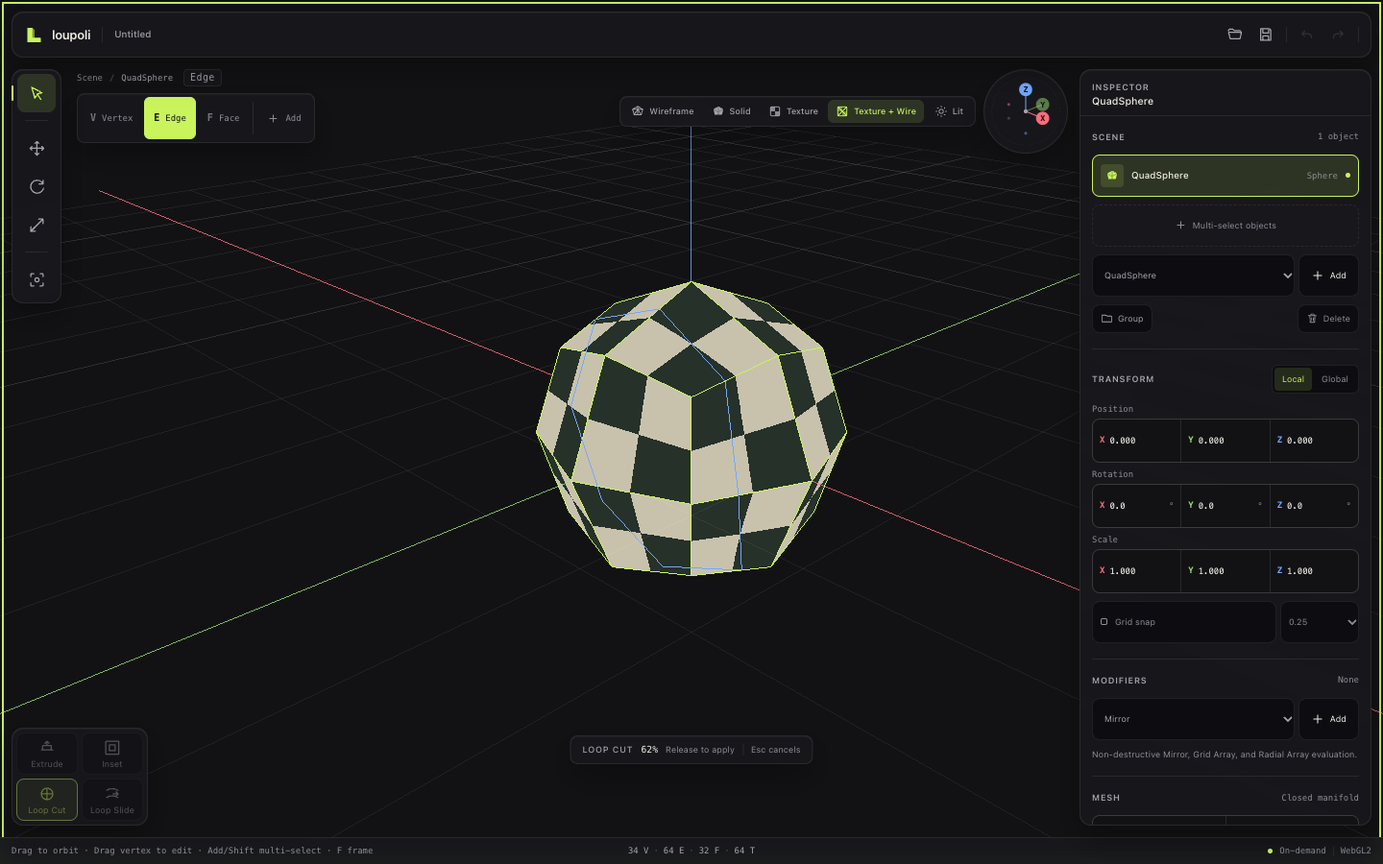
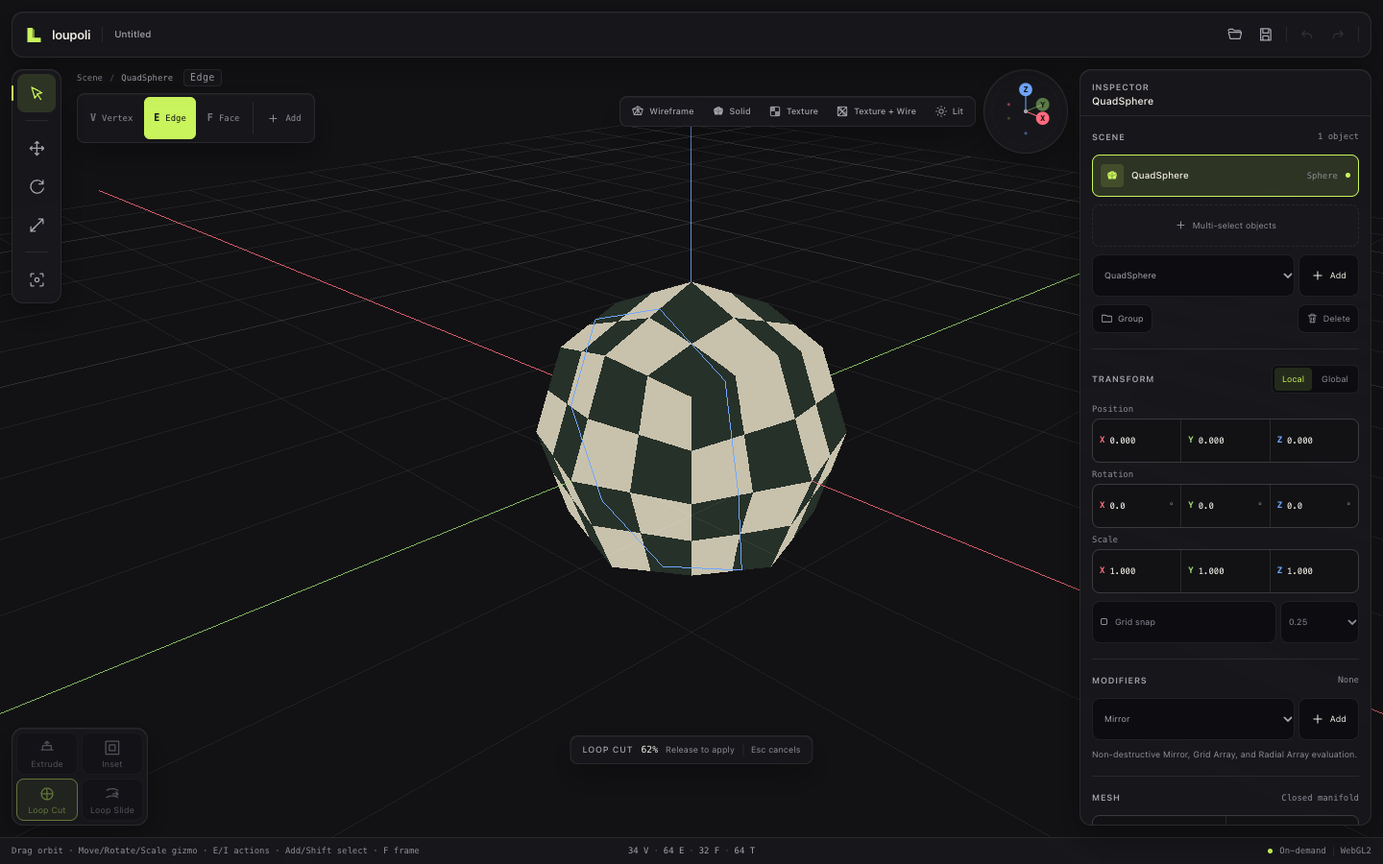
Polish documentation, hints, and HUD conventions
Refreshes current-state docs and screenshots, separates implemented design primitives from planned ones, updates status/accessibility hints, adds shared bottom-HUD tokens, prevents action/transform modes from overlapping, and removes a transient action field.

diff --git a/src/lib/ui/Chrome/StatusBar.svelte b/src/lib/ui/Chrome/StatusBar.svelte
@@ -41,19 +41,19 @@
       return 'Scene empty · add a primitive in the inspector';
     }
     if (session.snapshot.modifiersActive) {
-      return 'Modifiers active · edits apply to base and re-evaluate';
+      return 'Modifiers active · base edits re-evaluate · gizmo uses base median';
     }
     if (selectionCount === 1) {
       if (session.snapshot.selectionMode === 'vertex') {
         const axis = session.snapshot.axisLock;
         return axis
-          ? `Vertex ${selectedElements[0] + 1} selected · ${axis.toUpperCase()} axis · drag to move`
-          : `Vertex ${selectedElements[0] + 1} selected · drag to move`;
+          ? `Vertex ${selectedElements[0] + 1} · ${axis.toUpperCase()} axis · drag or use the gizmo`
+          : `Vertex ${selectedElements[0] + 1} selected · drag or use the gizmo`;
       }
-      return `${modeLabel} ${selectedElements[0] + 1} selected`;
+      return `${modeLabel} ${selectedElements[0] + 1} selected · Move/Rotate/Scale gizmo`;
     }
     if (selectionCount > 1) {
-      return `${selectionCount} ${modePlural} selected`;
+      return `${selectionCount} ${modePlural} selected · Move/Rotate/Scale gizmo`;
     }
     return '';
   });
@@ -64,8 +64,8 @@
     {#if dynamicHint}
       <span>{dynamicHint}</span>
     {:else}
-      <span class="hint-desktop">Drag to orbit · Drag vertex to edit · Add/Shift multi-select · F frame</span>
-      <span class="hint-touch">Tap select · 1-finger drag orbit · 2-finger pan/zoom · 2/3-finger tap undo/redo</span>
+      <span class="hint-desktop">Drag orbit · Move/Rotate/Scale gizmo · E/I actions · Add/Shift select · F frame</span>
+      <span class="hint-touch">Tap select · Pencil gizmo/actions · 1-finger orbit · 2-finger pan/zoom · 2/3-finger undo/redo</span>
     {/if}
   </div>
 

diff --git a/src/lib/editor/EditorRuntime.ts b/src/lib/editor/EditorRuntime.ts
@@ -212,7 +212,6 @@ interface ActionDrag {
   readonly loopBase: HalfEdgeMesh | null;
   numeric: string;
   value: number;
-  previewLine: Float32Array | null;
 }
 
 /** Most recent loop cut, used by the separate Loop Slide action. */
@@ -1265,8 +1264,7 @@ export class EditorRuntime {
       edgeIndex,
       loopBase,
       numeric: '',
-      value,
-      previewLine: null
+      value
     };
     try {
       const preview = this.buildActionMesh(drag, value);
@@ -1355,19 +1353,18 @@ export class EditorRuntime {
       drag.node.getEvaluatedMesh().modifiersActive
     ) {
       this.renderer.setActionPreviewLine(null);
-      drag.previewLine = null;
       return;
     }
     const source =
       drag.kind === 'loop-cut' ? drag.before : drag.loopBase;
     if (!source) {
       this.renderer.setActionPreviewLine(null);
-      drag.previewLine = null;
       return;
     }
     const positions = this.loopCutPreviewLine(source, preview);
-    drag.previewLine = positions.length > 0 ? positions : null;
-    this.renderer.setActionPreviewLine(drag.previewLine);
+    this.renderer.setActionPreviewLine(
+      positions.length > 0 ? positions : null
+    );
   }
 
   private loopCutPreviewLine(
@@ -2281,6 +2278,9 @@ export class EditorRuntime {
   ): boolean {
     if (this.modalTransform) {
       return true;
+    }
+    if (this.armedAction || this.actionDrag) {
+      return false;
     }
     const node = this.getActiveNode();
     const group = this.getActiveGroup();

diff --git a/src/App.svelte b/src/App.svelte
@@ -102,9 +102,12 @@
     <p id="viewport-help" class="visually-hidden">
       Z-up 3D viewport. Choose vertex, edge, or face selection. With a pen or the
       primary mouse button, select elements; use Add mode or Shift/Cmd-click to
-      select multiple. Vertex mode supports dragging one vertex. Use one finger
-      to orbit, two fingers to pan and pinch, two-finger tap to undo, and
-      three-finger tap to redo.
+      select multiple. With elements selected, Move, Rotate, and Scale place a
+      gizmo at their median; drag its axes with the pen or mouse. The ActionDock
+      provides E/I/L/Shift+L actions with drag or exact amounts. Desktop G/R/S
+      transforms selections or the active object. Use one finger to orbit, two
+      fingers to pan and pinch, two-finger tap to undo, and three-finger tap to
+      redo.
     </p>
     <canvas
       bind:this={canvas}

diff --git a/src/design/tokens.css b/src/design/tokens.css
@@ -112,6 +112,8 @@
   --toolrail-w: 52px;
   --inspector-w: 304px;
   --status-h: 28px;
+  --hud-bottom: calc(var(--safe-bottom) + var(--status-h) + var(--space-3));
+  --hud-bottom-raised: calc(var(--hud-bottom) + 64px);
   --gizmo-size: 88px;
   --gizmo-size-touch: 112px;
   --safe-top: env(safe-area-inset-top, 0px);

diff --git a/src/lib/ui/Chrome/ActionHud.svelte b/src/lib/ui/Chrome/ActionHud.svelte
@@ -55,9 +55,7 @@
     position: fixed;
     z-index: var(--z-hud);
     left: 50%;
-    bottom: calc(
-      var(--safe-bottom) + var(--status-h) + var(--space-3) + 64px
-    );
+    bottom: var(--hud-bottom-raised);
     display: flex;
     align-items: center;
     gap: var(--space-2);

diff --git a/src/lib/ui/Chrome/TransformHud.svelte b/src/lib/ui/Chrome/TransformHud.svelte
@@ -69,9 +69,7 @@
     position: fixed;
     z-index: var(--z-hud);
     left: 50%;
-    bottom: calc(
-      var(--safe-bottom) + var(--status-h) + var(--space-4)
-    );
+    bottom: var(--hud-bottom);
     display: flex;
     align-items: center;
     gap: var(--space-3);

diff --git a/docs/DESIGN_SYSTEM.md b/docs/DESIGN_SYSTEM.md
@@ -215,15 +215,16 @@ The renderer reads a small, explicit subset of tokens at startup through `getCom
 
 - `--bg-canvas` → renderer clear color
 - `--grid-minor`, `--grid-major` → grid shader
-- `--wireframe-edge`, `--selection` → overlays
+- `--wireframe-edge` → Wireframe mode; `--accent-primary` → selection, gizmo, and front-wire overlays
 - `--axis-x`, `--axis-y`, `--axis-z` → gizmo and transform handles
 - `--vertex-handle` → unselected topology handles
 - `--material-solid`, `--material-texture-a`, `--material-texture-b` → Phase 1 material fixture
 - `--viewport-key-light`, `--viewport-fill-light` → viewport lighting
+- `--hud-bottom`, `--hud-bottom-raised` → bottom HUD and touch-toolrail clearance
 
 Do not maintain a second hex palette in TypeScript. The CSS token file is the source of truth.
 
-The 16 CSS px picking radius is a behavioral constant, not a visual token. It lives in `input/constants.ts` and is tested.
+The 16 CSS px picking radius is a behavioral constant, not a visual token. It lives in `render/MeshNodeView.ts` (with the shared export in `render/ViewportRenderer.ts`) and is exercised by picking tests.
 
 ### 3.3 Token rules
 
@@ -424,57 +425,52 @@ Components live under `src/lib/ui/` and are built in Svelte 5 rune syntax. Each 
 
 ### 6.1 Component inventory
 
-| Component | Phase | Purpose | Notes |
+Implemented component files and local patterns:
+
+| Component / pattern | Phase | Purpose | Notes |
 |---|---:|---|---|
-| `AppShell` | 1 | Canvas + chrome layout, safe areas, density | Owns layout only, no editor state |
-| `TopBar` | 1–2 | Brand, project title, open/save, autosave state, history actions | File actions collapse on narrow widths; actions disabled during recovery |
-| `ToolRail` / `ToolDock` | 1 / 3 | Tool selection groups | Select, Move, Rotate, Scale, Frame; active state not color-only |
-| `StatusBar` | 1 | Hints, topology counts, renderer state | Autosave lives in the top bar's SaveState |
-| `OrientationGizmo` | 1–3 | Interactive camera orientation | Drag-to-orbit; tap axis to snap, center to frame; whole gizmo is hit area |
-| `ShadingControl` | 1 | Five viewport modes, top-right beside orientation gizmo | Segmented control; labels on wide desktop, 44px icons on touch |
-| `Panel` / `PanelSection` | 1 | Floating surface and section headings | Flat nested sections, no nested blur |
-| `Button` | 1 | Primary/secondary/ghost/danger actions | 30px visual, 44px touch hit area |
-| `IconButton` | 1 | Compact symbol actions | Accessible label mandatory |
-| `ToolButton` | 1 / 3 | Tool rail item with selected state | Non-color selection indicator |
-| `SegmentedControl` | 1–2 | Exclusive shading/selection modes | Vertex/Edge/Face and five viewport modes |
-| `Switch` | 1 / 3 | Snap/visibility and boolean settings | Larger hit area than visual track |
-| `Tooltip` | 1 | Explain icon-only controls | Hover on fine pointers; accessible description |
-| `Popover` / `Menu` | 1 | Overflow, shading, view menus | Escape, outside click, focus handling |
-| `NumberField` | 2 / 3 | Numeric transform and parameter input | Drag-scrub, step, axis accent |
-| `Vector3Field` | 3 | Object position/rotation/scale rows | Implemented with 44px inputs, axis colors, unit suffix |
-| `PS1 look` | 3 | Collapsed opt-in render-effect module | Uses native details/summary; 44px summary, off by default |
-| `Selection actions` | 3 | Extrude, inset, loop cut, merge, bridge, and delete selected elements | Contextual 44px actions; hidden when not applicable |
-| `Object multi-select` | 3 | Shift/Cmd-click and sticky pen/touch toggle; join action | 44px rows/actions, lime selected dots, separate active state |
-| `Group tree` | 3 | Folder rows, indented children, group/ungroup actions | Group row active state, 44px child rows, bake-on-ungroup |
-| `Modifier stack` | 3 | Ordered cards with enable/order/remove and parameter fields | 44px touch controls, explicit evaluated state, error panel |
-| `Compact action row` | 3 | Secondary Group/Join/Delete and selection actions | 30px visual on desktop, 44px touch region, destructive action separated |
-| `Transform orientation toggle` | 3 | Local/Global transform space | Two-button segmented control in Transform header; 44px touch height and width; hidden for groups where local equals global |
-| `TransformHud` | 2 | Transient desktop G/R/S readout | Bottom-center glass pill showing object/element target, operation, axis, exact value, and key hints; pointer-events none |
-| `Selection gizmo` | 3 | Element Move/Rotate/Scale | Existing axis gizmo placed at the selected-element median; enlarged hit volumes for Pencil; object/group fallback when no elements are selected |
-| `ActionDock` | 3 | One-shot mesh actions on touch and desktop | Bottom-left 2×2 grid, 44 px targets, contextual disabled states, armed accent state; E/I/L/Shift+L shortcuts |
-| `ActionHud` | 2 | Armed/numeric/dragging ActionDock readout | Bottom-center glass pill; value, drag/Enter/release hints, Esc cancel |
-| `Grid snap / axis lock` | 3 | Snap toggle + step, 44px X/Y/Z chips | Accent active state, axis colors, live status step |
-| `ObjectGizmo` | 3 | Move/Rotate/Scale viewport handles | Axis colors, screen-constant size, pen/mouse drag; no touch gesture conflict |
-| `Vector3Field` | 2 / 3 | XYZ transform rows | Axis colors and optional link |
-| `Select` | 2–3 | Primitive palette and modifier/parameter enumerations | Native select with 44px target |
-| `Slider` | 3 | Modifier/opacity ranges | Always paired with a numeric value |
-| `Tabs` | 3 | Inspector Object / Modifiers / Material | 44px tab hit areas on touch |
-| `EmptyState` | 1 | Empty outliner/viewport | Short, actionable, no illustration bloat |
-| `Kbd` | 1 | Keyboard hints | Hidden when no physical keyboard? Keep discoverable |
-| `Badge` | 2 | Counts, active selection mode, save/recovery state | Never the only status cue |
-| `ProjectBanner` / `SaveState` | 2 | Recovery, save/open errors, autosave status | Explicit Recover/Discard; errors persist until dismissed |
-| `Progress` | 4 / 5 | Bake/unwrap/long operations | Cancellable where possible |
-| `Dialog` | 2 / 5 | Recovery, destructive confirmations, save failures | Focus trap; no nested dialogs |
-| `DropZone` | 5 | Import drag intent | Explicit supported formats |
-| `ListRow` | 2 | Outliner rows, recent files | Selection and visibility affordances |
-| `ColorSwatch` / `ColorField` | 5 | Material colors | Native color picker where acceptable |
-| `ModifierCard` | 3 | Ordered modifier stack row | Drag handle 44px touch |
-| `TextureLayerRow` | 4 | Layer reorder/visibility/blend | Compact but 44px touch actions |
-| `Timeline` | 5 | Shape-key scrubber and playback | Bottom panel, no free-running render |
-| `SplitViewport` | 4 | 3D / UV split with draggable divider | Minimum pane sizes; one WebGL context |
+| App shell layout | 1 | Canvas + chrome layout, safe areas, density | `App.svelte` owns layout only, no editor state |
+| `TopBar` | 1–2 | Brand, project title, open/save, autosave state, history actions | File actions collapse on narrow widths |
+| `ToolRail` | 1–3 | Desktop left rail; bottom-docked touch toolrail | Select, Move, Rotate, Scale, Frame; active state is not color-only |
+| `StatusBar` | 1 | Hints, topology counts, renderer state | Hints are context-sensitive; autosave lives in the top bar |
+| `OrientationGizmo` | 1–3 | Interactive camera orientation | Drag-to-orbit; tap axis to snap, center to frame |
+| `ShadingControl` | 1 | Five viewport modes | Labels on wide desktop, 44px icon-only buttons on touch |
 | `SelectionModeControl` | 2 | Vertex/Edge/Face mode switch | 44px targets, active state not color-only |
-| `RecoveryBanner` | 2 | Offer restored unsaved work | Explicit Recover/Discard, never silent |
-| `SaveState` | 2 | Autosave/save status text | Distinguishes cached vs file saved |
+| `ActionDock` | 3 | One-shot mesh actions | Bottom-left 2×2 grid, 64×44 minimum targets, contextual disabled states |
+| `ActionHud` | 2 | Action readout | Bottom-center raised pill; drag/exact/release hints |
+| `TransformHud` | 2 | G/R/S readout | Bottom-center pill with target, axis, exact value, key hints |
+| `Inspector` | 1–3 | Scene, transform, modifiers, mesh actions | Floating panel; section-head pattern |
+| `IconButton` | 1 | Compact symbol actions | Accessible label mandatory |
+| `ToolButton` | 1–3 | Tool rail item | Selected state has a non-color indicator |
+| `Switch` | 1–3 | Snap/visibility and booleans | Larger hit area than visual track |
+| `Vector3Field` | 2–3 | XYZ transform rows | Axis colors, unit suffix, 44px touch inputs |
+| `Icon` | 1–3 | Local SVG registry | No icon package |
+| `ProjectBanner` / save state | 2 | Recovery, save/open errors, autosave status | Explicit Recover/Discard; errors persist until dismissed |
+| `.loupoli-panel` surface | 1 | Floating glass surface | Flat nested sections; no nested blur |
+| `.section` / `.section-head` | 1–3 | Inspector section layout | Shared local pattern, not a component file |
+| Selection actions | 3 | Extrude, inset, loop cut, merge, bridge, delete | Compact chips; destructive action separated |
+| `Object multi-select` | 3 | Shift/Cmd-click and sticky toggle; join | 44px rows/actions, lime selected dots |
+| Group tree | 3 | Folder rows and indented children | Group active state; bake-on-ungroup |
+| Modifier stack | 3 | Ordered cards with enable/order/remove/parameters | Explicit evaluated state and error panel |
+| Transform orientation toggle | 3 | Local/Global transform space | Two-button control; 44px touch width/height |
+| `Selection gizmo` / `ObjectGizmo` | 3 | Move/Rotate/Scale axes | Median placement for elements; screen-constant size; enlarged Pencil hit volumes |
+| Grid snap / axis chips | 3 | Snap toggle/step and X/Y/Z locks | 44px chips, accent state, axis colors |
+| PS1 look | 3 | Collapsed render-effect module | Native details/summary; off by default |
+| Native selects | 2–3 | Primitive palette and modifier parameters | 44px touch target |
+
+Planned primitives not yet extracted:
+
+- Shared `Button`, `SegmentedControl`, `Tooltip`, `Popover`/`Menu`, `NumberField`, `Kbd`, `Tabs`, `Slider`, `EmptyState`, `Badge`, `Dialog`, `DropZone`, `ListRow`, `ColorField`, `ModifierCard`, `TextureLayerRow`, `Timeline`, `SplitViewport`.
+- A shared bottom-HUD shell. Until extracted, `ActionHud` and `TransformHud` use the `--hud-bottom` / `--hud-bottom-raised` tokens and must not be active simultaneously.
+- 6.2 behavior rules describe the intended interaction contract for both current local markup and future extracted primitives.
+
+#### Action sizing hierarchy
+
+- **Primary:** 44px minimum height; full-width only for decisive actions such as Add.
+- **Tool rail:** 52px rail on desktop; 44px+ touch targets in the bottom dock (measured 64×52 in the iPad toolrail).
+- **ActionDock:** 64px minimum width, 44px minimum height; 2×2 grid.
+- **Compact Inspector actions:** 30px visual on desktop, 44px touch hit region.
+- **HUDs:** non-interactive; minimum height `--control-h`, pointer-events none.
 
 ### 6.2 Core component behavior
 

diff --git a/README.md b/README.md
@@ -4,9 +4,9 @@ A low-poly, pen-first 3D modeling studio for iPad and desktop. Z-up, quad-centri
 
 **Brand:** always lowercase `loupoli`.
 
-**Status:** Phase 2 is implemented. Phase 3 is underway: multi-element selection with additive touch taps, one-level object groups, multi-object selection and join, object/group transforms and gizmos, view-gizmo orbit, destructive deletion, face extrusion and inset, loop cut, vertex merge, multi-segment boundary-chain/loop bridging, grid snapping, vertex axis locks, a collapsed PS1 module, and a provenance-mapped Mirror/Grid Array/Radial Array modifier stack with base topology actions and mapped base-vertex dragging are implemented.
+**Status:** Phase 2 and the Phase 3 foundations are implemented. Current work includes context-sensitive object/group and selection gizmos, a Pencil ActionDock with exact action amounts, desktop G/R/S, front-face-culled Texture + Wire, loop-cut previews, groups and joins, destructive topology actions, and provenance-mapped Mirror/Grid Array/Radial Array stacks. Broader Phase 3 cleanup remains: free-plane/uniform selection handles, evaluated-space element pivots, loop-slide history, and physical iPad validation.
 
-![loupoli Phase 2 desktop viewport](docs/media/phase2-desktop.png)
+![Current loupoli desktop viewport with the selection gizmo and ActionDock](docs/media/desktop-overview.png)
 
 ---
 
@@ -28,15 +28,16 @@ A low-poly, pen-first 3D modeling studio for iPad and desktop. Z-up, quad-centri
 - **Three real primitives.** QuadSphere (all quads), Cylinder (quad wall plus n-gon caps), and Grid (open surface with explicit boundary loops). The first-run scene contains an editable QuadSphere.
 - **Multi-object scene.** Add primitives from the inspector, select the active object in the Scene outliner, delete it through an undoable command, and keep working with the same selection mode. New primitives are placed beside the existing scene rather than overlapping at the origin.
 - **Numeric object transforms.** Position, rotation (degrees in the UI, radians in the document), and scale rows in the Inspector commit undoable `TransformNodeCommand`s. Transforms are local object transforms and persist in `.lpoly` and autosave deltas.
-- **Object transform gizmos.** Move, Rotate, and Scale tools expose object-space handles on the canvas. Dragging an axis handle commits one axis-constrained `TransformNodeCommand`; mouse and pen are supported, while finger touch remains camera navigation. The gizmo maintains a constant screen size and follows the object's world position and orientation. A V/E/F control switches modes. Vertices and edges use the 16 CSS px screen-space tolerance with occlusion rejection; faces use a front-face raycast mapped back to the source DCEL face. Shift/Cmd/Ctrl-click, a sticky **Add** toggle, or additive one-finger touch taps build a set; clicking/tapping a selected element with Add toggles it out. A one-finger touch drag still orbits. Selected vertices, edges, and faces all render distinct overlays. Selection remains session state, not scene state.
+- **Object/group transform gizmos.** With no element selection, Move/Rotate/Scale show object-space handles. Dragging an axis commits one `TransformNodeCommand`; mouse and pen are supported, while finger touch remains camera navigation.
+- **Element selection and overlays.** V/E/F selection uses a 16 CSS px screen-space tolerance with occlusion rejection; faces use a front-face raycast mapped back to source DCEL faces. Shift/Cmd/Ctrl-click, the sticky **Add** toggle, and one-finger touch taps build a set. Selected vertices, edges, and faces render distinct overlays. Selection remains session state.
 - **Draggable view gizmo.** Dragging the orientation gizmo orbits the view; tapping an axis still snaps to that axis and tapping the center frames the active object.
 - **Quad-aware deformation.** A bent quad renders as a 4 × 4 bilinear patch instead of two independent texture panels, avoiding a diagonal texture crease. The DCEL remains one quad, and displayed V/E/F/triangle counts stay topological.
 - **Bounded command history.** Localized vertex deltas and node add/delete snapshots, redo truncation, a 100-command cap, and a 32 MB retained-byte budget.
 - **Local-first autosave.** A checkpoint plus localized command deltas is written to IndexedDB every 30 seconds while dirty and on visibility loss. Cold start offers **Recover** or **Discard**; recovered work is labelled until saved.
 - **Versioned `.lpoly` v1.** Binary container with a CRC-checked manifest and aligned typed-array columns. It round-trips multiple nodes, quads, n-gons, boundary loops, per-corner UVs, seam flags, face materials, transforms, and viewport settings.
 - **Native and browser file I/O.** Tauri uses the native dialog plugin plus Rust byte-level read/write commands with size checks, same-directory temporary files, `fsync`, and rename. Browser mode uses download and file-picker fallbacks. `Cmd/Ctrl+S` and `Cmd/Ctrl+O` are wired.
-- **Pointer routing.** Pen never moves the camera; it selects in the current mode and drags vertices. Touch remains the camera/gesture surface. Mouse supports the documented DCC orbit mappings.
-- **Design system.** Vanilla CSS tokens, local icon registry, floating glass panels, responsive iPad portrait/touch layouts, 44 px touch targets, focus states, safe-area handling, and reduced-motion/reduced-transparency fallbacks.
+- **Pointer routing.** Pen never moves the camera; it selects, drags selection/action gizmos, and edits vertices. Touch remains the camera/gesture surface, with taps selecting and one-finger drag orbiting. Mouse supports the documented DCC orbit mappings.
+- **Design system.** Vanilla CSS tokens, local icon registry, floating glass panels, responsive iPad portrait/touch layouts, 44 px touch targets, documented action-size tiers and bottom-HUD offsets, focus states, safe-area handling, and reduced-motion/reduced-transparency fallbacks.
 
 ![Multi-object Phase 2 scene with the QuadSphere, Cylinder, and Grid](docs/media/phase2-scene.png)
 

diff --git a/AGENTS.md b/AGENTS.md
@@ -123,9 +123,10 @@ Phase 2 is implemented; Phase 3 foundations are underway for browser and native 
 - Local/Global orientation for node transforms, with world-space position/rotation fields and world-oriented translate/rotate gizmos. Scale stays local to avoid unsupported shear; conversions use the one-level parent group transform.
 - Context-sensitive desktop G/R/S: if elements are selected, transform their unique vertices around the median pivot; otherwise transform the active object/group. Uses mouse previews, X/Y/Z constraints, numeric entry, a target-aware HUD, Enter/left-click commit, Escape/right-click cancel, and localized vertex-transform commands with autosave patches. Element transforms with an active modifier stack operate in base space and are labelled `(base)`; all evaluated copies re-evaluate.
 - Move/Rotate/Scale gizmos are context-sensitive: with selected elements they sit at the selection median and edit only those vertices; with no element selection they transform the object/group. Axis-constrained pen/mouse drags update the gizmo from the live selection median and commit localized vertex or transform commands. Enlarged gizmo hit volumes improve Pencil reliability. Finger touch remains camera navigation; free-plane/uniform center handles are not yet present.
+- ActionDock at bottom-left on touch and desktop: tap/click or E/I/L/Shift+L to arm one-shot Extrude, Inset, Loop Cut, or Loop Slide. Drag sets a live amount or type an exact amount (units for extrude, percent for inset/loop) and press Enter. Release/Enter commits one validated mesh replacement; Esc cancels and restores mesh/selection. Loop Slide is separate and operates on the most recent loop cut. 44 px targets.
 - Destructive deletion of selected faces or all faces incident to selected edges/vertices, with DCEL rebuild, boundary regeneration, undo, and autosave mesh-replacement patches. The PS1 look is a collapsed render-effect module at the Inspector bottom.
 - Vertex merge-to-centroid, collapsed-face cleanup, and bridging of two ordered boundary chains/loops with equal segment counts into a quad strip. Both use validated mesh replacement and autosave patches.
-- Face extrusion (single or multi-face regions, average-normal offset, boundary side walls), single-face inset toward the centroid, and single-segment quad loop cut. All preserve UVs/materials and use validated mesh replacement.
+- Face extrusion (single or multi-face regions, average-normal offset, boundary side walls), single-face inset toward the centroid, and single-segment quad loop cut. All preserve UVs/materials and use validated mesh replacement. Loop cuts accept a 0–1 position and retain the last loop source for Loop Slide.
 - Session-only object multi-selection (modifier-click or sticky touch/pen toggle) and join into the active target, with relative-transform baking, source removal, undo, and ordered multi-patch autosave transitions.
 - Grid snap (0.1/0.25/0.5/1.0) for object translation and vertex drags, plus world X/Y/Z vertex axis locks through keyboard keys and 44 px touch/pen chips. Snap state is session-only; typed numeric transforms stay exact.
 - One-level scene groups with an average-position pivot, outliner tree, group numeric/gizmo transforms, ungroup with transform baking, undo, ordered group autosave patches, and optional `.lpoly` group manifests/node parentage.
@@ -136,9 +137,6 @@ Phase 2 is implemented; Phase 3 foundations are underway for browser and native 
 - Tauri native open/save dialogs and Rust atomic byte-level file I/O; browser download/file-picker fallbacks.
 - Tauri debug build and Rust tests pass. The native WKWebView window, physical iPad, and iOS packaging are not yet verified.
 - Camera state and active-object selection are not serialized; node transforms and viewport settings are.
-
-- ActionDock at bottom-left on touch and desktop: tap/click or E/I/L/Shift+L to arm one-shot Extrude, Inset, Loop Cut, or Loop Slide. Drag sets a live amount or type an exact amount (units for extrude, percent for inset/loop) and press Enter. Release/Enter commits one validated mesh replacement; Esc cancels and restores mesh/selection. Loop Slide is separate and operates on the most recent loop cut. 44 px targets.
-- Single-segment quad loop cuts accept a 0–1 position; the last cut loop is retained for Loop Slide.
 
 Next planned work: free-plane and uniform-center selection gizmo handles, loop-slide history refinements, evaluated-space element pivots, and broader Phase 3 polish before Phase 4 texturing.
 

diff --git a/docs/PLAN.md b/docs/PLAN.md
@@ -1,6 +1,6 @@
 # loupoli — Master Delivery Plan
 
-**Status:** Phase 2 core implemented for browser and native desktop builds; physical-iPad and iOS packaging verification remain pending. Phase 3 is next, with object/group transforms, topology editing, join/merge/bridge, view-gizmo orbit, snapping, and modifiers.  
+**Status:** Phase 2 and the Phase 3 foundations are implemented for browser and native desktop builds, including topology editing, groups/join, snapping, modifiers, selection gizmos, and the desktop/touch ActionDock. Physical-iPad/WKWebView validation and the remaining Phase 3 polish remain open; Phase 4 texturing follows.  
 **Brand rule:** the name is always written `loupoli`, lowercase.  
 **Primary targets:** iPadOS (sideloaded build first), macOS desktop, and browser during development.  
 **Companion docs:** [Architecture](./ARCHITECTURE.md) · [Persistence](./PERSISTENCE.md) · [Design System](./DESIGN_SYSTEM.md) · [README](../README.md)
